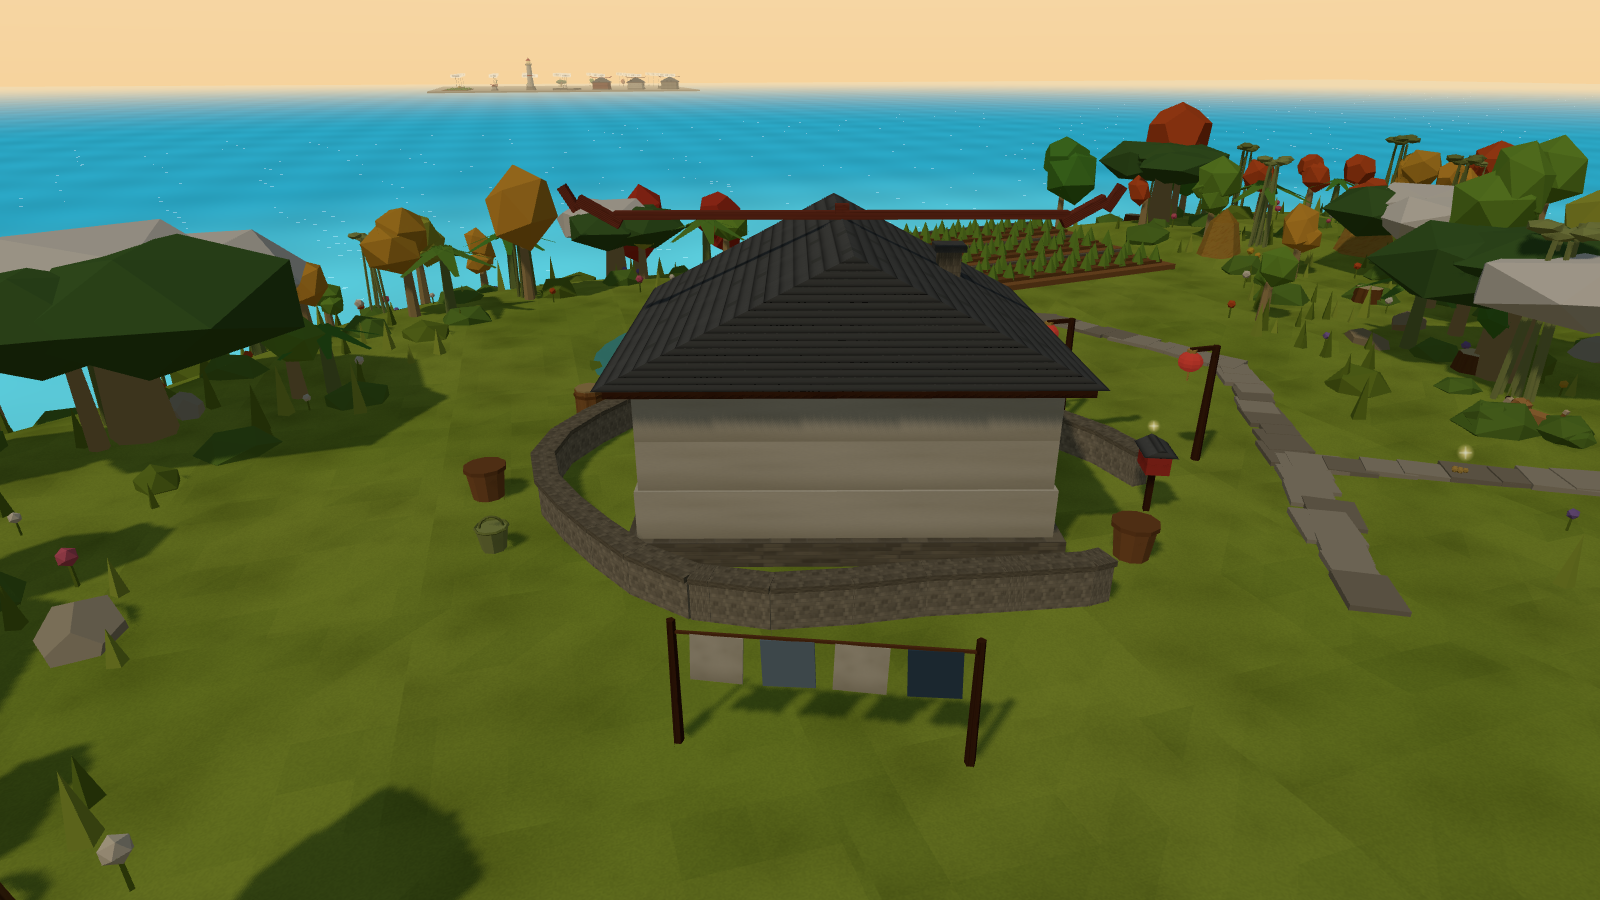
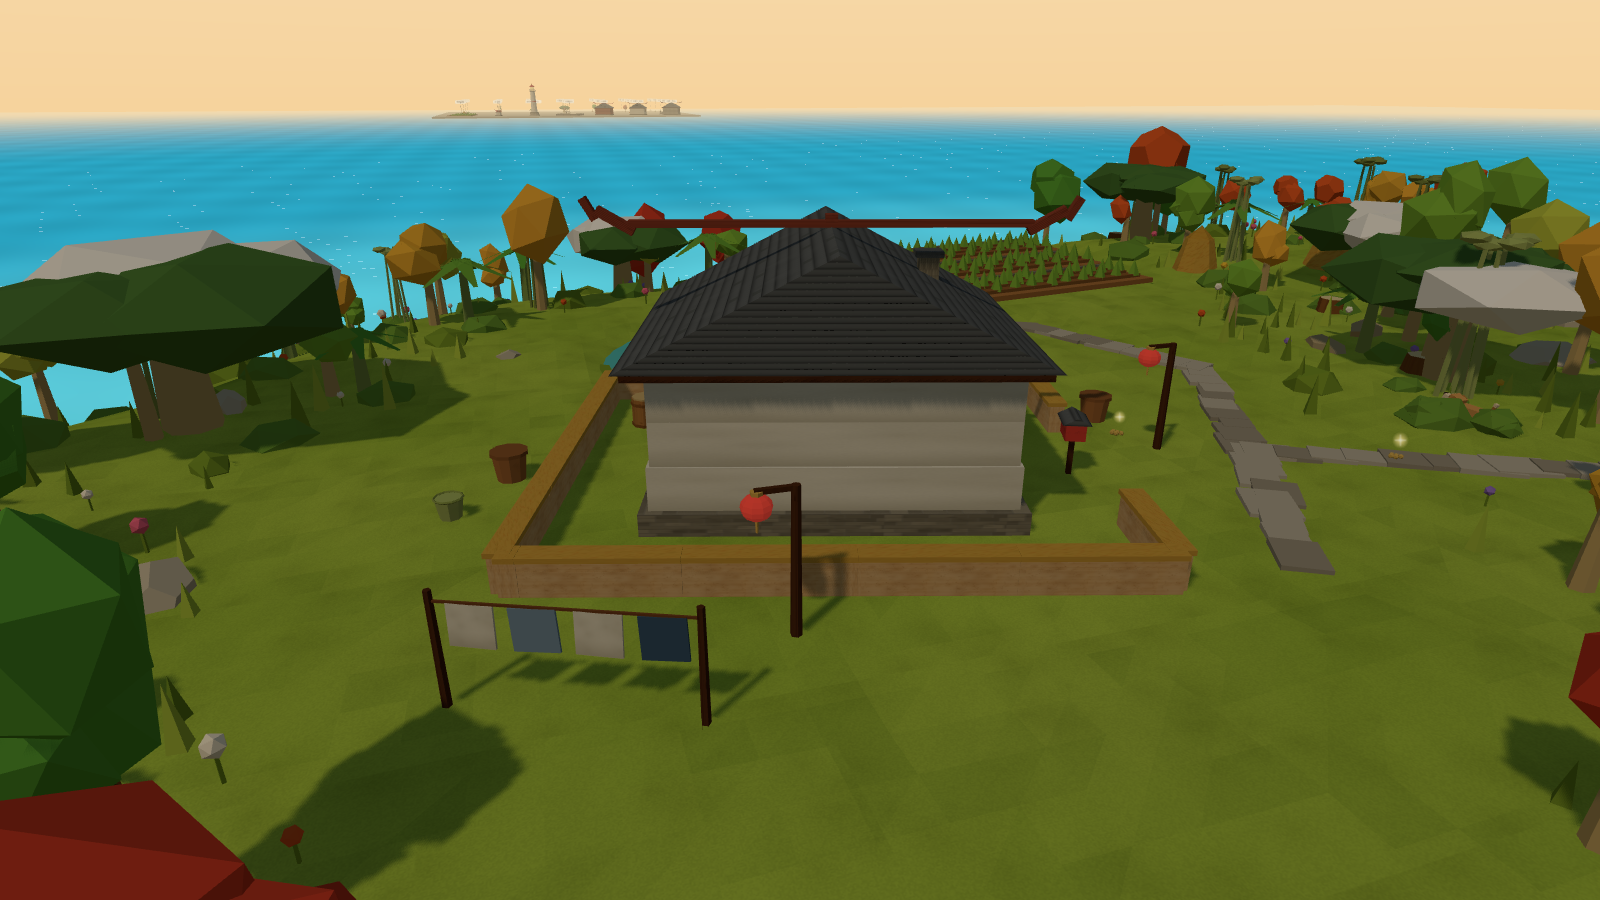
P5-7 房子院墙改回四边（角共用点不穿模）+ 新增暖夯土/抹灰贴图与稻草压顶；灯塔围栏保持曲线；顺手修榕树气生根悬空与碰撞测试方向判断

diff --git a/src/world/structures.js b/src/world/structures.js
@@ -113,14 +113,32 @@ export function buildStructures(scene, layout, assets, palette) {
     });
     stats.houses++;
 
-    // 院墙：顺着地形围出**不规则曲线**（不是矩形），门开在朝村子中心那一侧
+    // 院墙：规整四边形（4 个角 + 4 条边的中点，门只开在边的中点上）。
+    // 注意角落用的是"同一个点"，所以不会像最早那样两条边各自铺满、在角上交叉穿模。
     const fw = pad.w + 5.4;
     const fd = pad.d + 5.4;
-    const outline = organicRing(pad.x, pad.z, fw / 2, fd / 2, pad.rot ?? 0, 28);
+    const cosP = Math.cos(pad.rot ?? 0);
+    const sinP = Math.sin(pad.rot ?? 0);
+    const corner = [
+      [-fw / 2, -fd / 2],
+      [fw / 2, -fd / 2],
+      [fw / 2, fd / 2],
+      [-fw / 2, fd / 2]
+    ];
+    const outline = [];
+    for (let i = 0; i < 4; i++) {
+      const a = corner[i];
+      const b = corner[(i + 1) % 4];
+      const mid = [(a[0] + b[0]) / 2, (a[1] + b[1]) / 2];
+      // 顺序：边中点 → 角 → 边中点 → 角……（偶数下标都是边中点，门只从这里挑）
+      outline.push([pad.x + mid[0] * cosP + mid[1] * sinP, pad.z - mid[0] * sinP + mid[1] * cosP]);
+      outline.push([pad.x + b[0] * cosP + b[1] * sinP, pad.z - b[0] * sinP + b[1] * cosP]);
+    }
     const toCenter = new THREE.Vector2(-pad.x, -pad.z).normalize();
     let gateIndex = 0;
     let bestDot = -Infinity;
     outline.forEach(([px, pz], i) => {
+      if (i % 2 !== 0) return;
       const d = new THREE.Vector2(px - pad.x, pz - pad.z).normalize().dot(toCenter);
       if (d > bestDot) {
         bestDot = d;
@@ -129,12 +147,15 @@ export function buildStructures(scene, layout, assets, palette) {
     });
     const gate = { x: outline[gateIndex][0], z: outline[gateIndex][1], r: 2.6 };
     gates.push(gate);
+    // 暖色夯土墙 + 稻草压顶（温馨路线；石砌留给航标塔那圈围栏）
     const yard = assets.makeStoneWallPath(outline, {
       gaps: [gate],
       groundAt: layout.heightAt,
-      thickness: 0.42,
-      step: 1.0,
-      maxSegFactor: 1.3
+      color: '#E8C89C',
+      capColor: '#E0BC63',
+      step: 1.6,
+      maxSegFactor: 2.0,
+      thickness: 0.42
     });
     yard.name = `院墙:${pad.id}`;
     yard.userData.audit = { kind: 'decor' };

diff --git a/src/core/textures.js b/src/core/textures.js
@@ -273,6 +273,56 @@ export function createTextures(palette, seed = 1) {
     return t;
   }
 
+  // ---------- 暖色夯土 / 抹灰（院墙用：温馨，带手抹痕迹与稻草碎屑） ----------
+  function clay() {
+    const size = 256;
+    const c = canvas(size);
+    const ctx = c.getContext('2d');
+    ctx.fillStyle = '#f4e2c4';
+    ctx.fillRect(0, 0, size, size);
+    // 夯土分层：一行行夯出来的横向色带（要看得见，否则整面墙像刷了层平漆）
+    for (let i = 0; i < 8; i++) {
+      const y = (i + rnd() * 0.55) * (size / 8);
+      ctx.fillStyle = `rgba(206,170,120,${0.16 + rnd() * 0.12})`;
+      ctx.fillRect(0, y, size, 8 + rnd() * 12);
+      ctx.fillStyle = 'rgba(255,248,232,0.35)';
+      ctx.fillRect(0, y - 2, size, 2);
+    }
+    // 手抹的晕染（一亮一暗，做出"抹子走过的痕迹"）
+    blotches(ctx, size, 34, 'rgba(255,250,236,0.55)', 'rgba(208,172,120,0.38)', 44);
+    blotches(ctx, size, 16, 'rgba(255,255,255,0.25)', 'rgba(186,146,96,0.32)', 70);
+    // 稻草碎屑（夯土里混的草筋）
+    ctx.strokeStyle = 'rgba(176,136,78,0.55)';
+    ctx.lineWidth = 1.4;
+    for (let i = 0; i < 95; i++) {
+      const x = rnd() * size;
+      const y = rnd() * size;
+      const a = rnd() * Math.PI;
+      const l = 3 + rnd() * 7;
+      ctx.beginPath();
+      ctx.moveTo(x, y);
+      ctx.lineTo(x + Math.cos(a) * l, y + Math.sin(a) * l);
+      ctx.stroke();
+    }
+    // 细裂纹（老墙的味道）
+    ctx.strokeStyle = 'rgba(160,124,74,0.30)';
+    ctx.lineWidth = 1;
+    for (let i = 0; i < 7; i++) {
+      let x = rnd() * size;
+      let y = rnd() * size;
+      ctx.beginPath();
+      ctx.moveTo(x, y);
+      for (let k = 0; k < 5; k++) {
+        x += (rnd() - 0.5) * 26;
+        y += 6 + rnd() * 12;
+        ctx.lineTo(x, y);
+      }
+      ctx.stroke();
+    }
+    grain(ctx, size, 10);
+    return finish(c, 1);
+  }
+
   const tex = {
     roofTiles: roofTiles(),
     stone: stoneWall(),
@@ -280,6 +330,7 @@ export function createTextures(palette, seed = 1) {
     brick: brick(),
     wood: wood(),
     thatch: thatch(),
+    clay: clay(),
     ground: groundDetail()
   };
   Object.entries(tex).forEach(([k, t]) => (t.name = k));

diff --git a/src/world/assets.js b/src/world/assets.js
@@ -14,6 +14,8 @@ export function createAssets(palette, textures) {
   const stoneFine = T.stone ? withRepeat(T.stone, 3.2, 1.2) : null;
   const woodMain = T.wood ? withRepeat(T.wood, 1.6, 1.6) : null;
   const woodCoarse = T.wood ? withRepeat(T.wood, 1.1, 1.1) : null;
+  // 院墙专用：暖色夯土/抹灰（温馨路线，和石砌的灯塔围栏区分开）
+  const clayMain = T.clay ? withRepeat(T.clay, 2.4, 1.3) : null;
   const texMap = {
     [palette.wallStone]: stoneMain,
     [palette.wallStoneAlt]: stoneMain,
@@ -30,6 +32,7 @@ export function createAssets(palette, textures) {
     [palette.stone]: stoneFine,
     [palette.stoneDark]: stoneFine,
     [palette.foundation]: stoneFine,
+    '#E8C89C': clayMain, // 院墙暖夯土色（这个键同时决定颜色与贴图）
     '#E0BC63': T.thatch ?? null,
     '#CFA94F': T.thatch ?? null
   };
@@ -995,6 +998,7 @@ export function createAssets(palette, textures) {
 
     const canopyMat = mat(palette.banyanLeaf);
     const blobs = 5 + Math.floor(rand() * 3);
+    const blobRadii = [];
     for (let i = 0; i < blobs; i++) {
       const a = (i / blobs) * Math.PI * 2;
       const r = i === 0 ? 0 : 1.1 + rand() * 0.7;
@@ -1004,12 +1008,16 @@ export function createAssets(palette, textures) {
       blob.position.set(Math.cos(a) * r, 3.1 + (i === 0 ? 0.35 : 0), Math.sin(a) * r);
       blob.rotation.y = rand() * Math.PI;
       g.add(blob);
+      blobRadii.push({ a, r });
     }
+    // 气生根：必须从树冠里垂下来（半径跟树冠同圈、顶端伸进树冠内部、底端到地面），
+    // 否则会变成"挂在半空的棍子"（审计的「零件悬浮」就是这样抓出来的）
     for (let i = 0; i < 5; i++) {
-      const a = rand() * Math.PI * 2;
-      const r = 1.2 + rand() * 1.4;
+      const src = blobRadii[(i + 1) % blobRadii.length];
+      const a = src.a + (rand() - 0.5) * 0.5;
+      const r = src.r + (rand() - 0.5) * 0.5;
       const root = new THREE.Mesh(banyanRootGeo, mat(palette.trunkDark));
-      root.position.set(Math.cos(a) * r, 2.05, Math.sin(a) * r);
+      root.position.set(Math.cos(a) * r, 2.6, Math.sin(a) * r);
       g.add(root);
     }
     return shade(g);

diff --git a/CHANGELOG.md b/CHANGELOG.md
@@ -383,3 +383,37 @@
 - 性能：村口 752 / 院墙近景 945 / 航标塔 1760 / 俯瞰 691 draw call（都在 2000 预算内）
 
 **截图**：`shots/p5f-yard-1..5.png`（五圈院子各一张，曲线院墙 + 门洞清晰可见）· `shots/p5f-wall-close.png`（墙面近景，能看到压顶石）
+---
+
+## P5-7 · 房子院墙改回四边 + 换暖色夯土贴图 — tag `p5.7-yard-rect-warm`
+
+**你的反馈**：灯塔周围的围栏现在可以了；但房子周围的围栏改回原来四边吧，弯的很奇怪；而且希望房子围栏的贴图换一种比较温馨的，石砌的有点难看。
+
+**1. 灯塔围栏：保持曲线**（你确认 OK 的那版不动）
+**2. 房子院墙：改回规整四边**
+- 轮廓 = 4 个角 + 4 条边的中点（顺序：边中点→角→边中点→角…）
+- **角落共用同一个点** —— 所以不会像最早那版那样两条边各自铺满、在角上交叉穿模
+- 门只开在**边的中点**上，挑"最朝村子中心"的那条边
+- 倾斜贴地、自适应分段、合并几何体的优化全部保留（P5-5/P5-6 的成果不丢）
+
+**3. 贴图换成"温馨"路线：新增程序化「暖夯土 / 抹灰」贴图** `src/core/textures.js → clay()`
+- 一行行夯出来的**横向夯层带**（8 层，带高光/暗边）
+- 手抹晕染（亮暗两种抹痕）+ 稻草**草筋碎屑** + 几条**细裂纹**
+- 颜色 `#E8C89C`（暖沙/陶土调），压顶换成**稻草色** `#E0BC63`（走 thatch 贴图）
+- 石砌贴图**只留给航标塔那圈围栏**，两种墙从此一眼能分开
+
+**顺手修掉两个被这次改动"顺出来"的问题**
+1. **榕树气生根挂在半空**：审计的「零件悬浮」抓到庙前榕树有两个零件不接触 —— 原来的根半径随机 1.2~2.6m，落到树冠外就成了悬空的棍子。改成**根只在树冠那一圈下垂**（半径跟随树冠、顶端伸进树冠内部、底端到地面）。
+2. **碰撞测试自己指错方向**：它用"墙的垂线"判断院外，矩形下会指进院子里 → 误报"墙外 1.2m 不可通行"。改成用**由圈心指向墙段**的方向（对矩形和曲线都成立）。
+
+**验证**
+
+| 项 | 结果 |
+| --- | --- |
+| 墙段 | 118 段聚成 5 圈：**灯塔 44 段（曲线）** + 4 个院子各 18~20 段（四边） |
+| 贴地 | 1062 次测地：**浮空 0.000m**，最深埋 0.243m |
+| audit | **0 问题**（61 件）· 「墙网格错位」护栏自测 ✅ |
+| 回归 | test-collision **12/12** · test-trust 17/17 · test-camera 9/9 · shoot-fixes 7/7 |
+| draw call | 村口 745 / 院墙近景 932 / 航标塔 1750 / 俯瞰 691 |
+
+**截图**：`shots/p5f-yard-1..5.png`（四边院墙 + 暖夯土色）· `shots/p5f-wall-sun.png` / `p5f-wall-shade.png`（墙面近景的向阳面与背光面）
